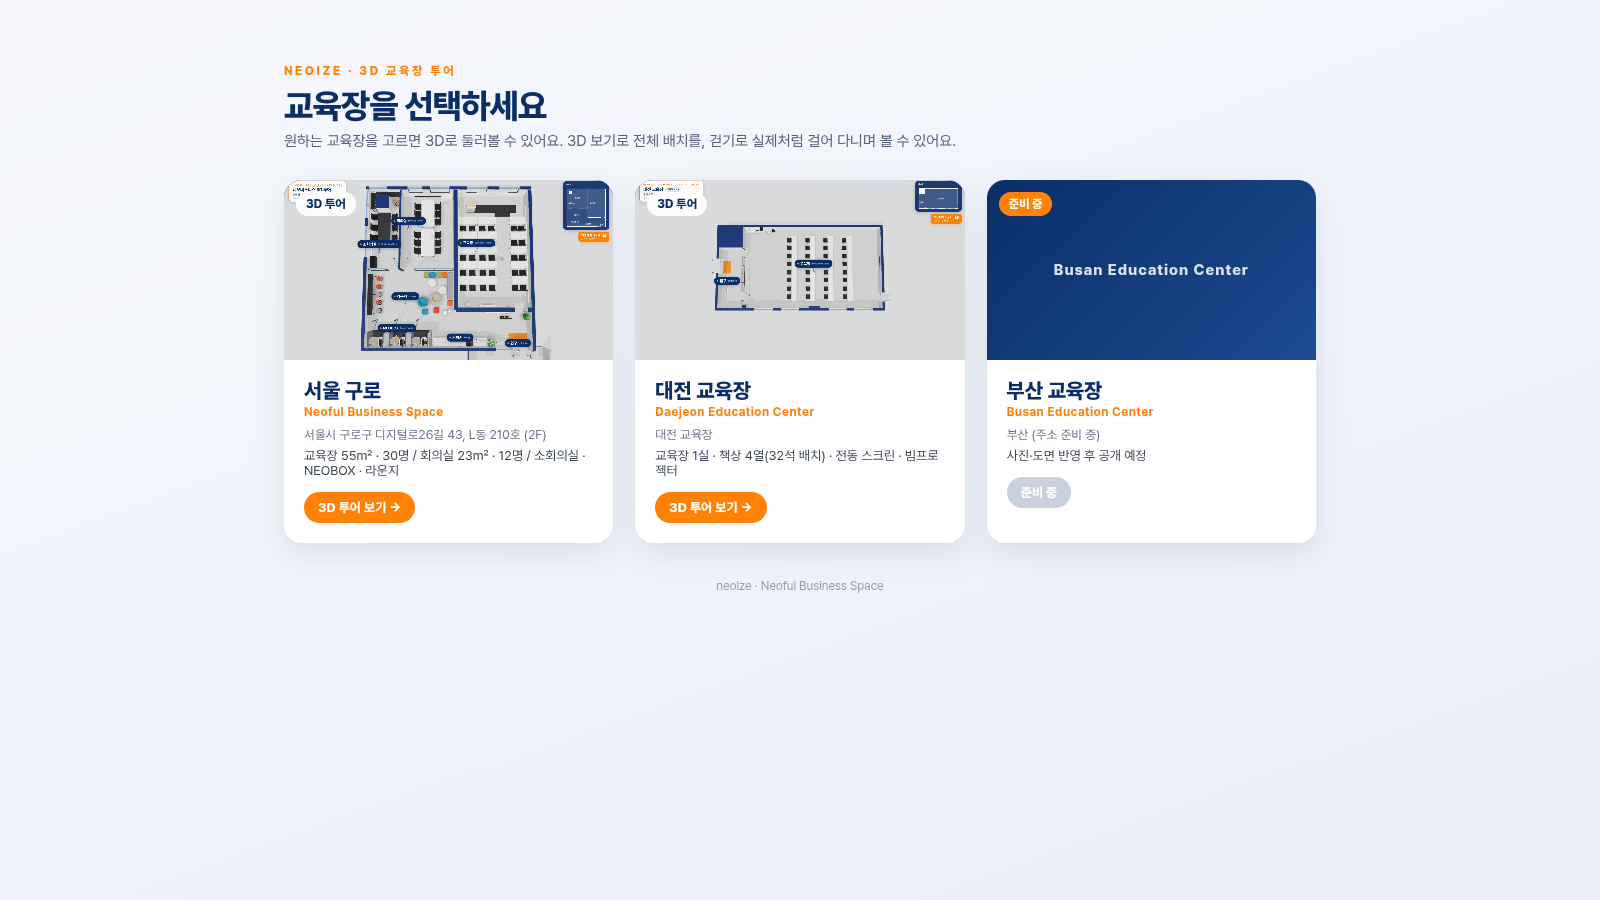
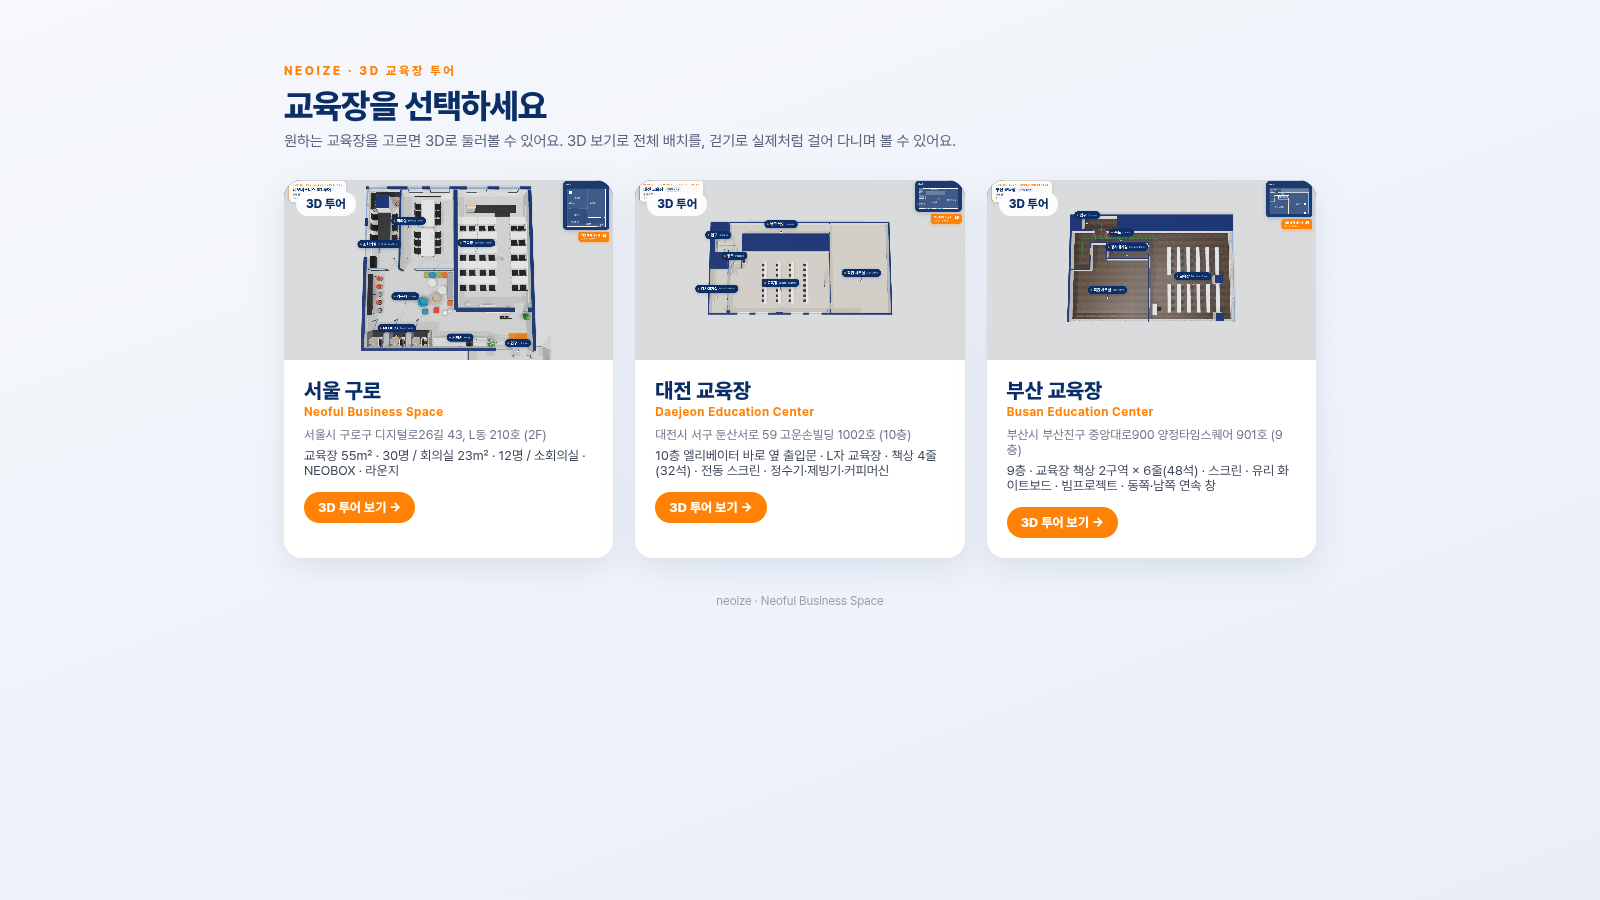
부산 교육장 3D 투어 공개: 9F 안내도 평면·입구 경로·교육장(스크린·책상 48석·기둥·연속 창·천장)·출입 불가 방 (v=11192130)

diff --git a/sites/busan/layout.js b/sites/busan/layout.js
@@ -1,25 +1,143 @@
 /* =====================================================================
-   부산 교육장 — 공간 설정 파일 (sites/busan/layout.js)  ※ 준비 중(임시 빈 공간)
-   사진·도면을 받으면 서울 구로(sites/seoul/layout.js)와 같은 형식으로 채워 주세요.
-   기준점(0,0) = 건물 왼쪽 위(북서쪽) 바깥 모서리, x = 동쪽, z = 남쪽, 단위 m
+   부산 교육장 — 공간 설정 파일 (sites/busan/layout.js)
+   공식 안내도(9F, busan_guide.png) + 실사진 3장 기준.
+   축척: 4인책상 한 줄(책상 1.8m × 2 = 3.6m)이 안내도 약 120px → 0.03 m/px (안내도 1024px 폭 기준).
+   기준점(0,0) = 건물 북서쪽. x = 동쪽, z = 남쪽, 단위 m.  rot: 0 = 북쪽, 90 = 서쪽, 180 = 남쪽, -90 = 동쪽.
+   안내도 px → m: x = (px-200)*0.03, z = (py-208)*0.03 + 2.0   (북쪽 2m 는 입구 앞 엘리베이터 홀, 추정)
+   - 건물(안내도 외곽): 20.7 × 11.52m (+ 북쪽 홀 2m), 천장 2.7m
+   - 입구: 북쪽 벽 비상구 표시 아래(px x297–352) → 북쪽 복도 → 동쪽 교육장 / 서쪽 복도 끝 화장실
+   - 교육장: x10.0–20.7, z2.0–13.52. 스크린 = 서쪽 벽, 책상 = 북쪽·남쪽 2구역 × 6줄(4인책상), 동쪽 끝 흰 사각 기둥 2개
+   - 강사대기실 · 직원 사무실 = 출입 불가
+   ※ 안내도 비율로 잡은 추정값이에요. 실측값을 받으면 숫자만 바꾸면 됩니다.
    ===================================================================== */
 window.LAYOUT = {
-  building: { name: '부산 교육장', width: 10, depth: 8, ceiling: 2.7, eye: 1.6, wall: { exterior: 0.24, interior: 0.14, thick: 0.30 } },
+  building: { name: '부산 교육장', width: 20.7, depth: 13.52, ceiling: 2.7, eye: 1.6, wall: { exterior: 0.24, interior: 0.14, thick: 0.30 },
+              floorPattern: 'tile', floorColor: '#4b3c31', floorTile: 0.45, ceilingTex: 'acoustic', baseboard: { color: '#3a3533', h: 0.08 } },
   photoDir: 'sites/busan/photos/',
+  backdrop: [ { side:'east', dist:12 }, { side:'south', dist:12 } ],   // 동쪽·남쪽 창밖 하늘 + 도시
+
   rooms: [
-    { id:'entrance', name:'부산 교육장', en:'Coming soon', rect:[0, 0, 10, 8], floor:'floor',
-      label:[5, 4], labelY:1.8, jump:{ x:5, z:6.6, look:[5, 1] },
-      card:{ photos:[], desc:'부산 교육장 3D 투어는 준비 중이에요. 사진과 도면을 받으면 실제 공간으로 만들어 드릴게요.' } }
+    { id:'classroom', name:'교육장', en:'Education Center', rect:[10.0, 2.0, 20.7, 13.52], floor:'floor',
+      label:[15.4, 8.24], jump:{ x:19.6, z:12.6, look:[10.0, 7.0] },
+      card:{ photos:[],
+             desc:'부산 교육장. 서쪽 벽에 스크린과 양옆 유리 화이트보드, 천장 빔프로젝트가 있고, 동쪽·남쪽은 연속 창이에요. 흰 접이식 책상이 북쪽·남쪽 2구역에 6줄씩(줄마다 4인), 가운데 통로 끝에 흰 사각 기둥이 있어요.',
+             services:['스크린','빔프로젝트','유리 화이트보드','냉난방'] } },
+    { id:'entrance', name:'입구', en:'Entrance', small:true, rect:[1.5, 0, 6.0, 2.0], floor:'floor',
+      label:[2.3, 0.6], jump:{ x:2.6, z:0.45, look:[5.2, 3.2] },
+      card:{ photos:[], desc:'9층 입구(비상구 표시 아래 문)예요. 들어와서 초록 경로를 따라 북쪽 복도를 동쪽으로 가면 교육장이에요. 화장실은 서쪽 복도 끝이에요.' } },
+    { id:'corridor', name:'복도', en:'Corridor', small:true, rect:[0, 2.0, 10.0, 3.62], rects:[[0, 3.62, 2.64, 7.01]], floor:'floor',
+      label:[6.6, 2.8], jump:{ x:4.2, z:2.8, look:[10.0, 2.8] }, card:{ photos:[], desc:'입구에서 교육장까지 이어지는 복도예요. 서쪽 복도 끝에 화장실이 있어요.' } },
+    { id:'instructor', name:'강사대기실', en:'Instructor Room', small:true, noEntry:true, rect:[4.65, 3.62, 10.0, 5.66], floor:'floor', label:[7.3, 4.64],
+      jump:{ x:7.3, z:4.6, look:[10.0, 4.6] }, card:{ photos:[], desc:'복도와 교육장 사이의 강사대기실 (출입 불가).' } },
+    { id:'office', name:'직원 사무실', en:'Staff Office', small:true, noEntry:true, rect:[0, 7.01, 10.0, 13.52], rects:[[2.64, 5.66, 10.0, 7.01], [2.64, 3.62, 4.65, 5.66]], floor:'floor', label:[5.0, 9.9],
+      jump:{ x:5.0, z:9.9, look:[10.0, 9.9] }, card:{ photos:[], desc:'건물 남서쪽 직원 사무실 (출입 불가).' } }
   ],
+
   start: { mode:'orbit', room:'entrance' },
-  walls: [
-    { from:[0, 0],  to:[10, 0], type:'solid', outer:true, sign:{ text:'준비 중 · COMING SOON', at:5, y:1.6, size:0.22 } },
-    { from:[0, 0],  to:[0, 8],  type:'solid', outer:true },
-    { from:[0, 8],  to:[10, 8], type:'solid', outer:true },
-    { from:[10, 0], to:[10, 8], type:'solid', outer:true }
+
+  // 바닥 동선(안내도 초록 '이동경로'): 입구 → 북쪽 복도 동쪽 → 교육장 / 입구 → 서쪽 복도 → 화장실
+  routes: [
+    { color:'#2fa84f', points:[[3.73, 0.8], [3.73, 2.8], [10.9, 2.8], [11.6, 3.4]] },
+    { color:'#2fa84f', opacity:0.55, points:[[3.73, 2.8], [1.3, 2.8], [1.3, 5.0]] }
   ],
-  columns: [],
-  ceiling: { panels: [ { rect:[0, 0, 10, 8], nx:3, nz:2 } ], strips: [], projectors: [], downlights: [], aircon: [] },
-  equipment: [],
-  furniture: []
+
+  walls: [
+    // 바깥벽
+    { from:[0, 0], to:[20.7, 0], type:'solid', outer:true },
+    { from:[0, 0], to:[0, 13.52], type:'solid', outer:true },
+    // 동쪽 · 남쪽: 연속 창(사진: 흰 스팬드럴 + 작은 젖힘창 띠 + 큰 고정창, 회색 알루미늄)
+    { from:[20.7, 2.0], to:[20.7, 13.52], type:'window', outer:true, style:'curtain', bay:1.5 },
+    { from:[10.0, 13.52], to:[20.7, 13.52], type:'window', outer:true, style:'curtain', bay:1.5 },
+    { from:[0, 13.52], to:[10.0, 13.52], type:'window', outer:true, style:'curtain', bay:1.5 },   // 직원 사무실 쪽(추정)
+    // 원래 북쪽 벽: 비상구 표시 아래 입구(px x297–352) — 유리 양문, 처음부터 열림
+    { from:[0, 2.0], to:[20.7, 2.0], type:'solid', outer:true,
+      openings:[ { at:2.9, width:1.66, door:'glass', double:true, entrance:true, frame:'white', open:true } ] },
+    // 북쪽 복도 남쪽 벽 (강사대기실·사무실과 구분)
+    { from:[2.64, 3.62], to:[10.0, 3.62], type:'solid' },
+    // 서쪽 복도 동쪽 벽 + 직원 사무실 문(추정 위치, 출입 불가)
+    { from:[2.64, 3.62], to:[2.64, 7.01], type:'solid',
+      openings:[ { at:4.3, width:0.9, door:'wood', frame:'white', hinge:'start', swing:88, locked:true } ] },
+    { from:[0, 7.01], to:[2.64, 7.01], type:'solid' },   // 서쪽 복도 끝
+    // 강사대기실
+    { from:[4.65, 3.62], to:[4.65, 5.66], type:'solid' },
+    { from:[4.65, 5.66], to:[10.0, 5.66], type:'solid' },
+    // 교육장 서쪽(스크린) 벽: 북쪽 끝은 복도로 열려 있음(z2.0–3.62). 스크린 오른쪽(북) 흰 문 = 강사대기실 문(사진1, 출입 불가)
+    { from:[10.0, 3.62], to:[10.0, 13.52], type:'solid',
+      openings:[ { at:3.95, width:0.9, door:'wood', vision:'strip', frame:'white', casing:0.06, hinge:'start', swing:-88, locked:true } ] }
+  ],
+
+  // 북쪽 2m 띠 중 입구 앞 홀(x1.5–6.0)만 걸을 수 있음 / 교육장 동쪽 끝 흰 사각 기둥 2개(안내도 회색 사각형, 사진)
+  columns: [
+    { rect:[0, 0, 1.5, 2.0], block:true }, { rect:[6.0, 0, 20.7, 2.0], block:true },
+    { rect:[18.25, 7.74, 19.25, 8.74] },
+    { rect:[18.25, 12.42, 19.25, 13.40] }
+  ],
+
+  ceiling: {
+    panels: [],
+    strips: [   // 교육장: 2등용 형광등 기구(1.2×0.3m), 긴 방향 = 동서, 5줄 × 4개 / 복도·방: 일자형
+      { x:11.6, z:3.5, len:1.2, w:0.3, rot:90, twin:true }, { x:14.1, z:3.5, len:1.2, w:0.3, rot:90, twin:true }, { x:16.6, z:3.5, len:1.2, w:0.3, rot:90, twin:true }, { x:19.1, z:3.5, len:1.2, w:0.3, rot:90, twin:true },
+      { x:11.6, z:5.85, len:1.2, w:0.3, rot:90, twin:true }, { x:14.1, z:5.85, len:1.2, w:0.3, rot:90, twin:true }, { x:16.6, z:5.85, len:1.2, w:0.3, rot:90, twin:true }, { x:19.1, z:5.85, len:1.2, w:0.3, rot:90, twin:true },
+      { x:11.6, z:8.24, len:1.2, w:0.3, rot:90, twin:true }, { x:14.1, z:8.24, len:1.2, w:0.3, rot:90, twin:true }, { x:16.6, z:8.24, len:1.2, w:0.3, rot:90, twin:true }, { x:19.1, z:8.24, len:1.2, w:0.3, rot:90, twin:true },
+      { x:11.6, z:10.6, len:1.2, w:0.3, rot:90, twin:true }, { x:14.1, z:10.6, len:1.2, w:0.3, rot:90, twin:true }, { x:16.6, z:10.6, len:1.2, w:0.3, rot:90, twin:true }, { x:19.1, z:10.6, len:1.2, w:0.3, rot:90, twin:true },
+      { x:11.6, z:12.95, len:1.2, w:0.3, rot:90, twin:true }, { x:14.1, z:12.95, len:1.2, w:0.3, rot:90, twin:true }, { x:16.6, z:12.95, len:1.2, w:0.3, rot:90, twin:true }, { x:19.1, z:12.95, len:1.2, w:0.3, rot:90, twin:true },
+      { x:3.73, z:1.0, len:1.2, w:0.1, rot:90 },
+      { x:2.0, z:2.8, len:1.2, w:0.1, rot:90 }, { x:5.0, z:2.8, len:1.2, w:0.1, rot:90 }, { x:8.0, z:2.8, len:1.2, w:0.1, rot:90 },
+      { x:1.3, z:5.2, len:1.2, w:0.1, rot:0 },
+      { x:7.3, z:4.64, len:1.2, w:0.1, rot:90 },
+      { x:3.0, z:9.0, len:1.2, w:0.1, rot:90 }, { x:7.0, z:9.0, len:1.2, w:0.1, rot:90 }, { x:3.0, z:11.8, len:1.2, w:0.1, rot:90 }, { x:7.0, z:11.8, len:1.2, w:0.1, rot:90 }
+    ],
+    downlights: [   // 원형 매입 다운라이트(사진): 형광등 사이
+      [12.85, 4.65], [15.35, 4.65], [17.85, 4.65], [12.85, 7.05], [15.35, 7.05], [17.85, 7.05],
+      [12.85, 9.45], [15.35, 9.45], [17.85, 9.45], [12.85, 11.8], [15.35, 11.8], [17.85, 11.8], [10.7, 6.0], [10.7, 10.4]
+    ],
+    projectors: [ { x:14.6, z:8.0, aim:[10.0, 8.0], drop:0.35, color:'white', label:'빔프로젝트' } ],
+    aircon: [[12.85, 5.85, 0.95], [12.85, 10.6, 0.95], [17.85, 5.85, 0.95], [17.85, 10.6, 0.95]]   // 4방향 카세트(사진, 개수·위치 추정)
+  },
+
+  /* 교육장 책상 배치 (책상 배치 바꾸기 버튼 / B 키). 스크린이 서쪽이라 책상은 rot:90(서쪽을 봄) */
+  deskLayouts: {
+    start: 0,
+    list: [
+      { id:'lecture', name:'강의식', items:[
+        // 안내도: 6줄(px x605–840) × 북쪽 구역(y280–400) · 남쪽 구역(y435–555), 줄마다 4인책상(1.8m 책상 2개) = 48석
+        { type:'array', xs:[12.6, 13.83, 15.06, 16.29, 17.52, 18.75], zs:[4.98, 6.78, 9.71, 11.51],
+          item:{ type:'deskPair', w:1.8, d:0.45, chairs:2, casters:true, tag:false, chairStyle:'nest', tuck:0.2, rot:90 } }
+      ] },
+      { id:'group', name:'조별', items:[
+        { type:'array', xs:[12.8, 15.5, 18.2], zs:[4.6, 10.4], item:{ type:'island', len:1.8, dd:0.5, perSide:2, basket:true, tents:true, rot:90 } }
+      ] }
+    ]
+  },
+
+  /* 장비 안내(마우스를 올리면 안내 카드) — '(예: …) — 수정 필요' 는 예시 문구예요 */
+  equipment: [
+    { id:'bs_projector', name:'빔프로젝트', room:'교육장', box:[14.3, 7.7, 14.9, 8.3, 2.1, 2.7],
+      lines:['연결 케이블: (예: HDMI) — 수정 필요', '리모컨 위치: (예: 강사 책상) — 수정 필요'] },
+    { id:'bs_screen', name:'스크린', room:'교육장', box:[10.1, 6.75, 10.4, 9.25, 1.0, 2.7], label:true, labelAt:[10.25, 2.62, 8.0], lines:['스크린 내리기/올리기: (예: 벽 스위치) — 수정 필요'] },
+    { id:'bs_board', name:'유리 화이트보드', room:'교육장', boxes:[[10.05, 5.4, 10.25, 6.8, 0.8, 2.2], [10.05, 9.3, 10.25, 11.8, 0.8, 2.2]], lines:['마커·지우개: (예: 레지 위 비치) — 수정 필요'] },
+    { id:'bs_ac', name:'에어컨', room:'교육장', boxes:[[12.37, 5.37, 13.33, 6.33, 2.5, 2.75], [12.37, 10.12, 13.33, 11.08, 2.5, 2.75], [17.37, 5.37, 18.33, 6.33, 2.5, 2.75], [17.37, 10.12, 18.33, 11.08, 2.5, 2.75]], lines:['리모컨/조작: (예: 벽 컨트롤러) — 수정 필요'] }
+  ],
+
+  furniture: [
+    /* --- 서쪽 벽(사진1): 남쪽 넓은 유리 화이트보드 · 스크린 · 북쪽 유리 화이트보드 · 흰 문(강사대기실) --- */
+    { type:'ceilingScreen', x:10.25, z:8.0, w:2.4, h:1.6, rot:-90 },
+    { type:'whiteboard', x:10.09, z:10.55, w:2.5, rot:-90, style:'glass' },
+    { type:'whiteboard', x:10.09, z:6.1, w:1.4, rot:-90, style:'glass' },
+    { type:'desk', x:10.75, z:12.0, w:1.4, d:0.55, rot:90 },      // 강사 책상(사진1 왼쪽, 추정)
+    { type:'chair', x:11.3, z:12.0, rot:90 },
+    { type:'clock', x:18.24, z:8.24, rot:90, y:2.1 },             // 가운데 기둥 서쪽 면 벽시계(사진2)
+
+    /* --- 비상구 유도등 + 소화기 (안내도) --- */
+    { type:'exitSign', x:3.73, z:2.14, y:2.3, rot:180 },          // 입구 위(실내 쪽)
+    { type:'exitSign', x:10.95, z:2.14, y:2.3, rot:180 },         // 교육장 북서쪽
+    { type:'extinguisher', x:4.75, z:2.3 },
+    { type:'extinguisher', x:11.9, z:2.3 },
+    { type:'extinguisher', x:10.35, z:13.1 },
+    { type:'extinguisher', x:4.95, z:3.95 },
+
+    /* --- 입구 앞 홀(추정): 엘리베이터 / 서쪽 복도 끝 화장실 --- */
+    { type:'elevator', x:3.73, z:0.06, rot:180, floor:9 },
+    { type:'restroom', x:0.14, z:5.6, rot:-90 }
+  ]
 };

diff --git a/sites/sites.js b/sites/sites.js
@@ -9,6 +9,7 @@ window.SITES = [
     desc:'교육장 55㎡ · 30명 / 회의실 23㎡ · 12명 / 소회의실 · NEOBOX · 라운지', thumb:'shot_plan.png' },
   { id:'daejeon', name:'대전 교육장', sub:'Daejeon Education Center', ready:true,
     title:'대전 교육장', brand:'NEOIZE · DAEJEON EDUCATION CENTER', addr:'대전시 서구 둔산서로 59 고운손빌딩 1002호 (10층)', desc:'10층 엘리베이터 바로 옆 출입문 · L자 교육장 · 책상 4줄(32석) · 전동 스크린 · 정수기·제빙기·커피머신', thumb:'shot_dj_plan.png' },
-  { id:'busan',   name:'부산 교육장', sub:'Busan Education Center', ready:false,
-    title:'부산 교육장 3D 투어', brand:'NEOIZE · BUSAN', addr:'부산 (주소 준비 중)', desc:'사진·도면 반영 후 공개 예정' }
+  { id:'busan',   name:'부산 교육장', sub:'Busan Education Center', ready:true,
+    title:'부산 교육장', brand:'NEOIZE · BUSAN EDUCATION CENTER', addr:'부산시 부산진구 중앙대로900 양정타임스퀘어 901호 (9층)',
+    desc:'9층 · 교육장 책상 2구역 × 6줄(48석) · 스크린 · 유리 화이트보드 · 빔프로젝트 · 동쪽·남쪽 연속 창', thumb:'shot_bs_plan.png' }
 ];

diff --git a/index.html b/index.html
@@ -178,10 +178,10 @@ a.pk-card:hover{transform:translateY(-4px);box-shadow:0 16px 36px rgba(11,46,103
   </div>
 </aside>
 <!-- 교육장 목록: sites/sites.js / 교육장별 공간 설정: sites/<id>/layout.js (치수·가구 배치는 거기서 수정) -->
-<script src="sites/sites.js?v=11192030"></script>
+<script src="sites/sites.js?v=11192130"></script>
 <script type="importmap">{"imports":{"three":"./lib/three.module.min.js","three/addons/":"./lib/addons/"}}</script>
 <script type="module">
-const V = '11192030', SITES = window.SITES || [], q = new URLSearchParams(location.search);
+const V = '11192130', SITES = window.SITES || [], q = new URLSearchParams(location.search);
 let id = q.get('site');
 if (!id && [...q.keys()].length) id = 'seoul';            // 예전 링크(?room=… 등)는 서울 구로로
 const S = SITES.find((s) => s.id === id);

diff --git a/수정방법.md b/수정방법.md
@@ -319,3 +319,12 @@ ceiling: { panels:[ { rect:[x1,z1,x2,z2], nx:2, nz:3 } ],  aircon:[[x,z], ...] }
 - 천장: `building.ceilingTex:'acoustic'`(흰 점무늬 흡음 텍스), 교육장 조명 = 1.2×0.3m 트로퍼 3줄×7개(`ceiling.strips`), 원형 천장 스피커 `ceiling.round`, 에어컨 앞 오른쪽 큰 것 + 뒤 가운데 작은 것, 빔프로젝터 x13.7(스크린에서 1/3 지점).
 - 바닥: `building.floorColor`(회베이지 시트 비닐) + `building.baseboard`(회색 걸레받이).
 - 책상: 1.8×0.45m 흰 접이식(앞 가림판 · 회색 다리 · 검정 바퀴), 4줄 × 4개, 의자 `chairStyle:'shell'`(검정 쉘 + 메쉬 등받이 + 크롬 바퀴), 책상 서쪽에 붙여(`tuck`) 스크린(동쪽)을 봄.
+
+## 부산 교육장 (sites/busan/layout.js)
+- 공식 안내도(9F) 기준 축척 0.03 m/px (4인책상 한 줄 3.6m = 약 120px). px → m: x=(px-200)*0.03, z=(py-208)*0.03+2.0 (북쪽 2m = 입구 앞 엘리베이터 홀, 추정).
+- 입구 = 원래 북쪽 벽 비상구 표시 아래 유리 양문(x2.9–4.56). 초록 경로: 입구 → 북쪽 복도 동쪽 → 교육장 / 서쪽 복도 → 화장실.
+- 교육장 x10.0–20.7, z2.0–13.52: 서쪽 벽 = 스크린(z8.0, 2.4m) + 유리 화이트보드 2개 + 강사대기실 흰 문(출입 불가). 동쪽·남쪽 = `style:'curtain'` 연속 창(spandrel / band / head / bay 로 조절).
+- 책상: deskLayouts 의 xs(6줄) × zs(북쪽 2개·남쪽 2개). 의자 `chairStyle:'nest'`(짙은 회색 쉘 + 흰 프레임). 흰 사각 기둥 2개 = columns.
+- 천장: `twin:true` 2등용 형광등 5줄 × 4개, downlights, 에어컨 4대(추정), 빔프로젝트 x14.6.
+- 바닥: building 의 `floorPattern:'tile'`(짙은 갈색 광택 타일, floorColor·floorTile 로 조절).
+- 강사대기실·직원 사무실 = `noEntry` + 문 `locked:true`.
